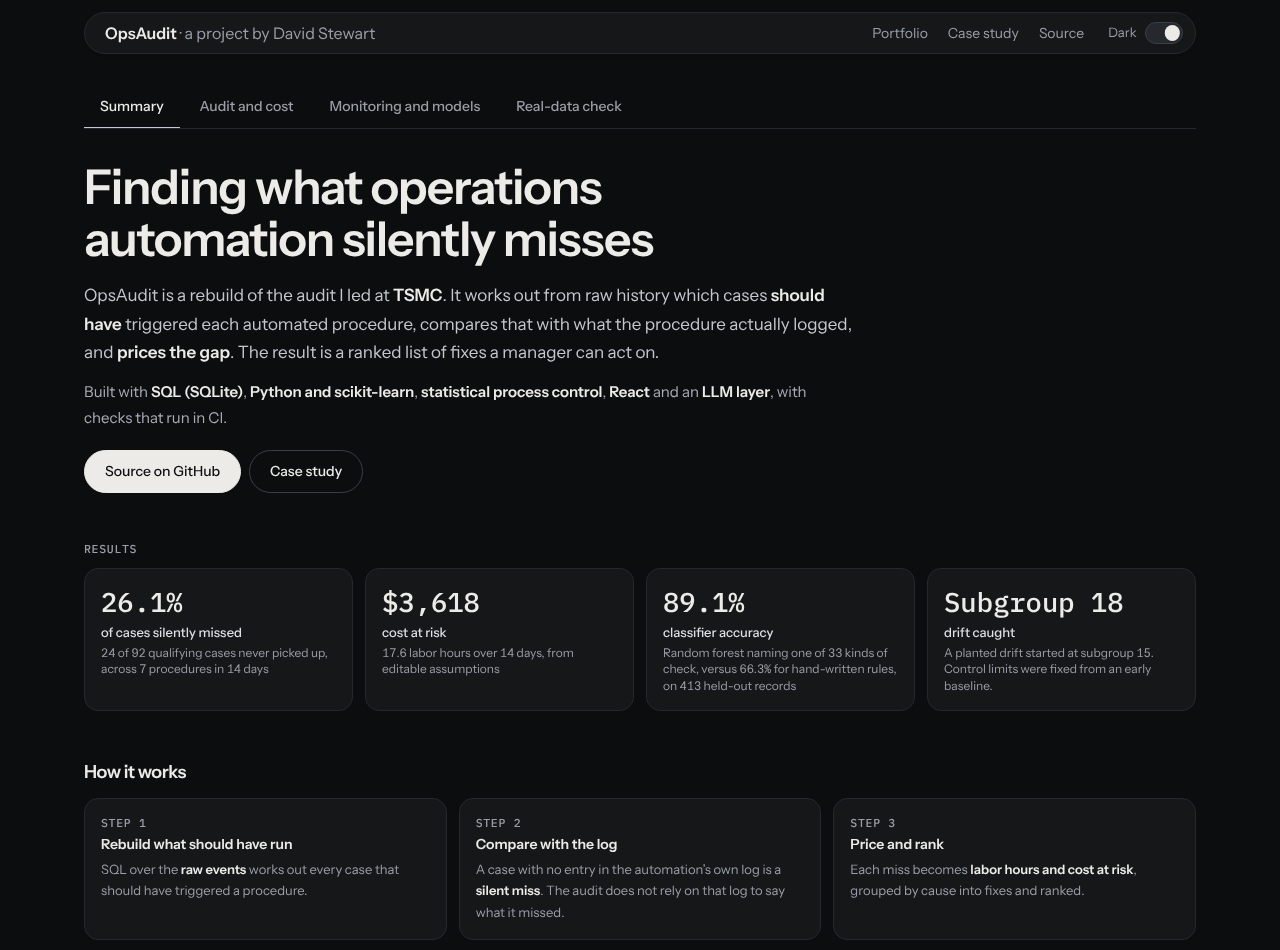
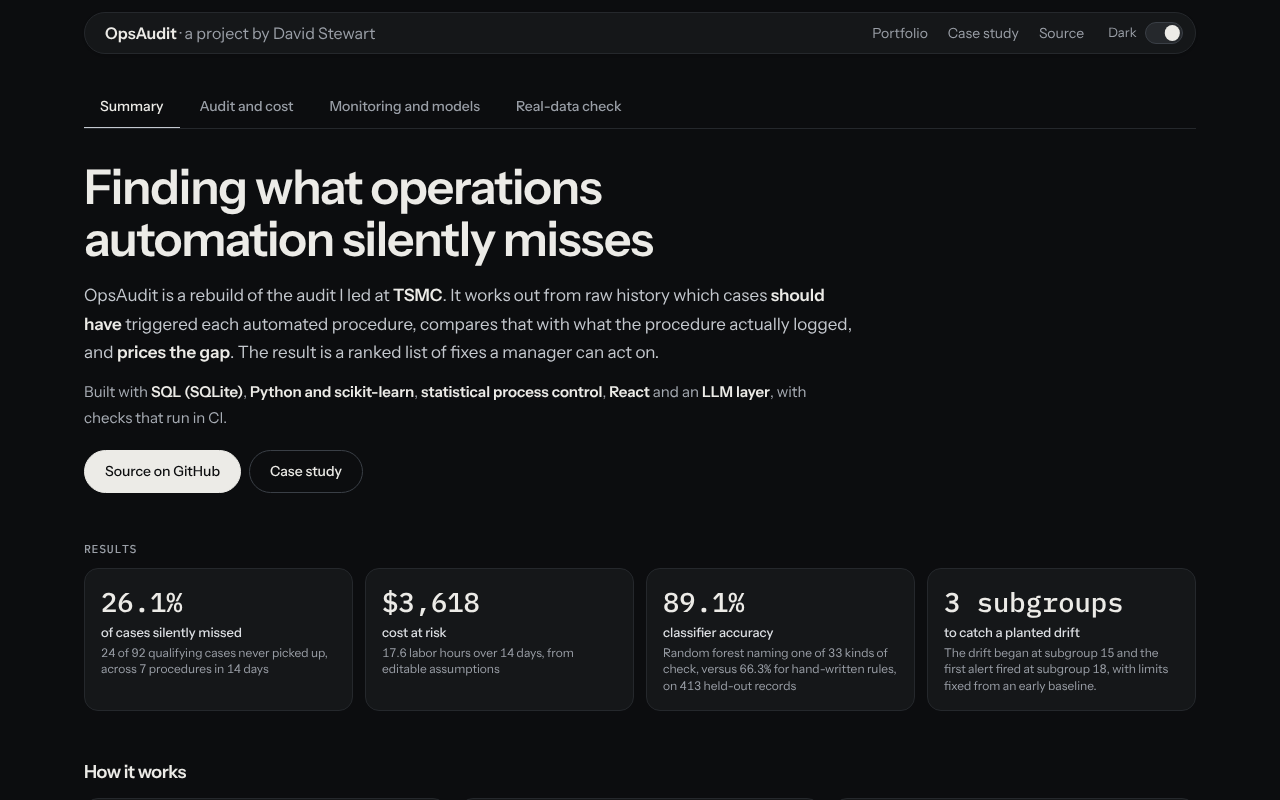
Trim repeated copy, rename Projects heading, refresh OpsAudit cover and screenshot (#10)
Claude-Session: https://claude.ai/code/session_012FPgiyy9kCMpvbqsYyKmgc

diff --git a/index.html b/index.html
@@ -51,7 +51,7 @@
     <p class="eyebrow">Runs, scanned</p>
     <canvas id="monitor" aria-hidden="true"></canvas>
     <p class="readout mono" aria-hidden="true"><span id="mon-checked">Move your cursor across the runs.</span><span id="mon-bad"></span></p>
-    <p class="cap">Every mark is a run that should have started. Move across the grid and the ones that never fired turn red. Finding them was my project at TSMC.</p>
+    <p class="cap">Every mark is a run that should have started. Scan across to find the ones that never fired.</p>
   </div>
 </header>
 
@@ -77,14 +77,13 @@
     <div>
       <h3>Taiwan Semiconductor Manufacturing Company</h3>
       <p class="role"><span>Automation Program Management Intern</span><span>Phoenix, Arizona, May to August 2026</span></p>
-      <p>I interned at TSMC's Arizona fab on the team that maintains the automation platform and procedures. I proposed an audit of the runs that never started, scoped it, and led it across 130 procedures and more than 2,200 tools.</p>
+      <p>I interned at TSMC's Arizona fab on the team that maintains the automation platform and procedures. I proposed an audit of the runs that never started, scoped it, and led it.</p>
       <details>
         <summary>More on what I did</summary>
         <div>
-          <p>The platform reports how many of the runs it started were successful, and it had no record of the ones that never started. The audit found silent failures equal to 4 to 6 percent of the runs that did start.</p>
-          <p>The procedures had been written from inconsistent templates, so I turned them into detection specifications and found owners for them across several departments and with teams in Taiwan, where I worked in Mandarin. I wrote SQL and Python against more than 1,000,000 daily log entries and set up on-call alerts for critical misses.</p>
-          <p>I quantified about 600 hours a month of manual work and an estimated six figures in scrap, with wafers worth about $25,000 each, by prioritizing the fixes that protect wafer flow. I also built a reusable audit template organized by candidate type.</p>
-          <p>I shipped a key performance indicator across the whole platform, time saved per run, that measures what each automation is actually worth, along with four Power BI dashboards that are now in active use. The indicator was approved after I presented it to the head of manufacturing for Fab 21, and it has been implemented.</p>
+          <p>The procedures came from inconsistent templates, so I turned them into detection specifications and found owners for them across several departments and with teams in Taiwan, where I worked in Mandarin. I wrote SQL and Python against more than 1,000,000 daily log entries and set up on-call alerts for critical misses.</p>
+          <p>I sized the gap at about 600 hours a month of manual work and an estimated six figures in scrap, with wafers worth about $25,000 each, and prioritized the fixes that protect wafer flow. I also built a reusable audit template.</p>
+          <p>I shipped a platform-wide key performance indicator, time saved per run, along with four Power BI dashboards that are now in active use. The indicator was approved after I presented it to the head of manufacturing for Fab 21.</p>
         </div>
       </details>
       <div class="from">
@@ -97,14 +96,14 @@
 </section>
 
 <section class="block" id="projects">
-  <h2>Things I've built</h2>
+  <h2>What I've built</h2>
   <div class="grid3">
 
     <a class="card proj" href="projects/opsaudit.html">
       <div class="cover"><img src="img/cover-opsaudit.png" width="1000" height="625" alt="A control chart showing a drift between two process lanes being caught"><span class="badge live">Live demo</span></div>
       <div class="proj-body">
         <div class="proj-top"><h3>OpsAudit</h3><span class="arrow" aria-hidden="true">&nearr;</span></div>
-        <p>An audit that finds what operations automation silently misses and prices the gap. It found <b>24 of 92</b> cases never ran and ranked the fixes, using <b>SQL</b>, <b>Python</b> and <b>statistical process control</b>. On a public semiconductor dataset the method did not hold up, which I wrote up.</p>
+        <p>An audit that finds what automation silently misses and prices the gap: <b>24 of 92</b> cases never ran, with the fixes ranked.</p>
         <span class="meta mono">Python, SQL, JavaScript</span>
       </div>
     </a>
@@ -133,7 +132,7 @@
 <section class="block" id="about">
   <h2>More about me</h2>
   <div class="card card-pad resume" data-tabs>
-    <div class="bento-head"><span class="eyebrow">Background</span><a class="eyebrow" href="resume.pdf">PDF</a></div>
+    <div class="bento-head"><span class="eyebrow">Background</span></div>
       <div class="tabs" role="tablist">
       <button role="tab" aria-selected="true" data-for="exp">Experience</button>
       <button role="tab" aria-selected="false" data-for="edu">Education</button>
@@ -143,7 +142,6 @@
       <button role="tab" aria-selected="false" data-for="cam">On camera</button>
     </div>
     <div class="panelbody" id="exp" role="tabpanel">
-      <div class="entry"><h4>Automation Program Management Intern</h4><p class="sub">Taiwan Semiconductor Manufacturing Company, Summer 2026</p><p>Audited 130 automated procedures across more than 2,200 tools and shipped a key performance indicator for the whole platform.</p></div>
       <div class="entry"><h4>Product Management Fellow</h4><p class="sub">Microsoft Student Research, September 2026 to present</p><p>Prototyping an AI-native incident management portal for a Microsoft product team, as a React web app on Azure Static Web Apps with customer and engineer views that I refine weekly with the Microsoft product lead. I also benchmarked a competitor platform across six evaluation tracks, separating verified capability from vendor marketing with sourced evidence.</p></div>
       <div class="entry"><h4>Director of Events</h4><p class="sub">Product @ GT, Georgia Tech, August 2026 to present</p><p>I run events for Georgia Tech's premier product management club, whose partners include Google, Microsoft, Home Depot and UPS.</p></div>
       <div class="entry"><h4>Finance Director, Product Consultant</h4><p class="sub">180 Degrees Consulting, September 2024 to present</p><p>Worked with Pro Bono Partnership of Atlanta and drove a 30 percent increase in monthly active users and 20 percent in client registration by auditing engagement data and directing a rebuild of their content management system.</p></div>
@@ -170,7 +168,7 @@
 </main>
 
 <footer>
-  <a href="mailto:david.y.stewart1@gmail.com">david.y.stewart1@gmail.com</a> &middot; <a href="https://www.linkedin.com/in/david-y-stewart" rel="noopener">LinkedIn</a> &middot; <a href="resume.pdf">R&eacute;sum&eacute;</a>
+  <a href="mailto:david.y.stewart1@gmail.com">david.y.stewart1@gmail.com</a> &middot; <a href="https://www.linkedin.com/in/david-y-stewart" rel="noopener">LinkedIn</a>
 </footer>
 
 </div>
